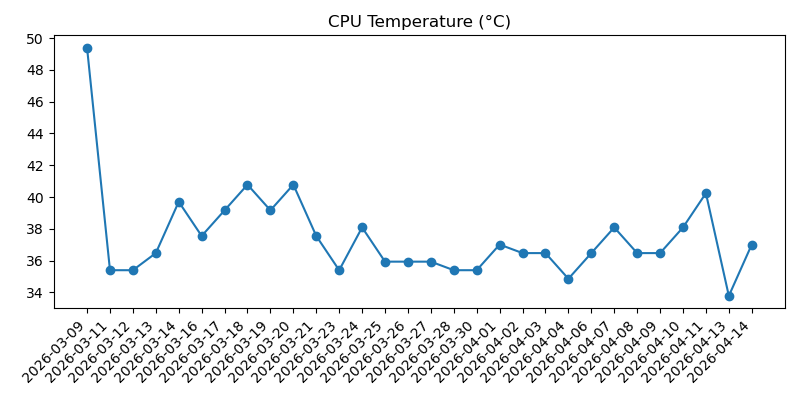
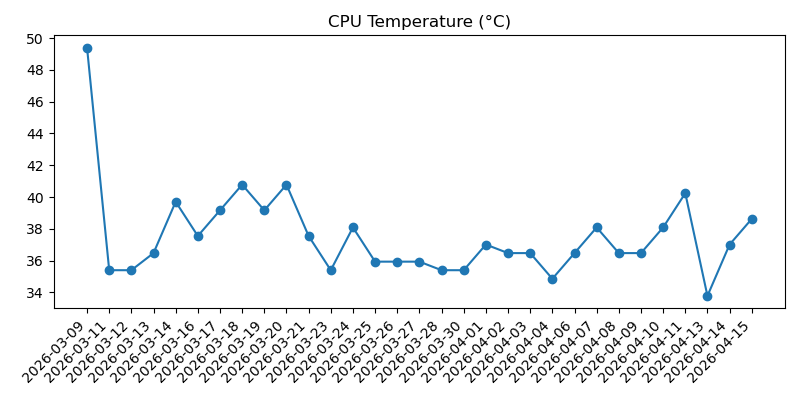
Add daily health and weather snapshot

Changed region(s): [[0.0625, 0.78, 0.9375, 0.96], [0.125, 0.45, 0.9688, 0.75]]

diff --git a/2026-04.md b/2026-04.md
@@ -408,3 +408,37 @@
 - Overall: Good
 - Warning: None
 
+## 2026-04-15 15:04:28
+
+### Machine
+- Uptime: up 2 weeks, 1 day, 1 hour, 0 minutes
+- CPU load (1m, 5m, 15m): 0.00, 0.00, 0.00
+- RAM used: 164 MB / 921 MB (17.8%)
+- Disk used (/): 3.5 GB / 28.8 GB (12.2%)
+- Free disk space (/): 24.1 GB
+- CPU temp: 38.6°C
+- Voltage / throttling: OK
+
+### Reachability
+- Internet check (1.1.1.1): Reachable (3.9 ms)
+
+### Weather
+- Madrid:
+  - Condition: Despejado
+  - Max temp: 23°C
+  - Min temp: 8°C
+  - Feels like: 16°C
+  - Chance of rain: 0%
+  - Warnings: None reported
+- Barcelona:
+  - Condition: Despejado
+  - Max temp: 20°C
+  - Min temp: 10°C
+  - Feels like: 14°C
+  - Chance of rain: 0%
+  - Warnings: None reported
+
+### Health
+- Overall: Good
+- Warning: None
+
